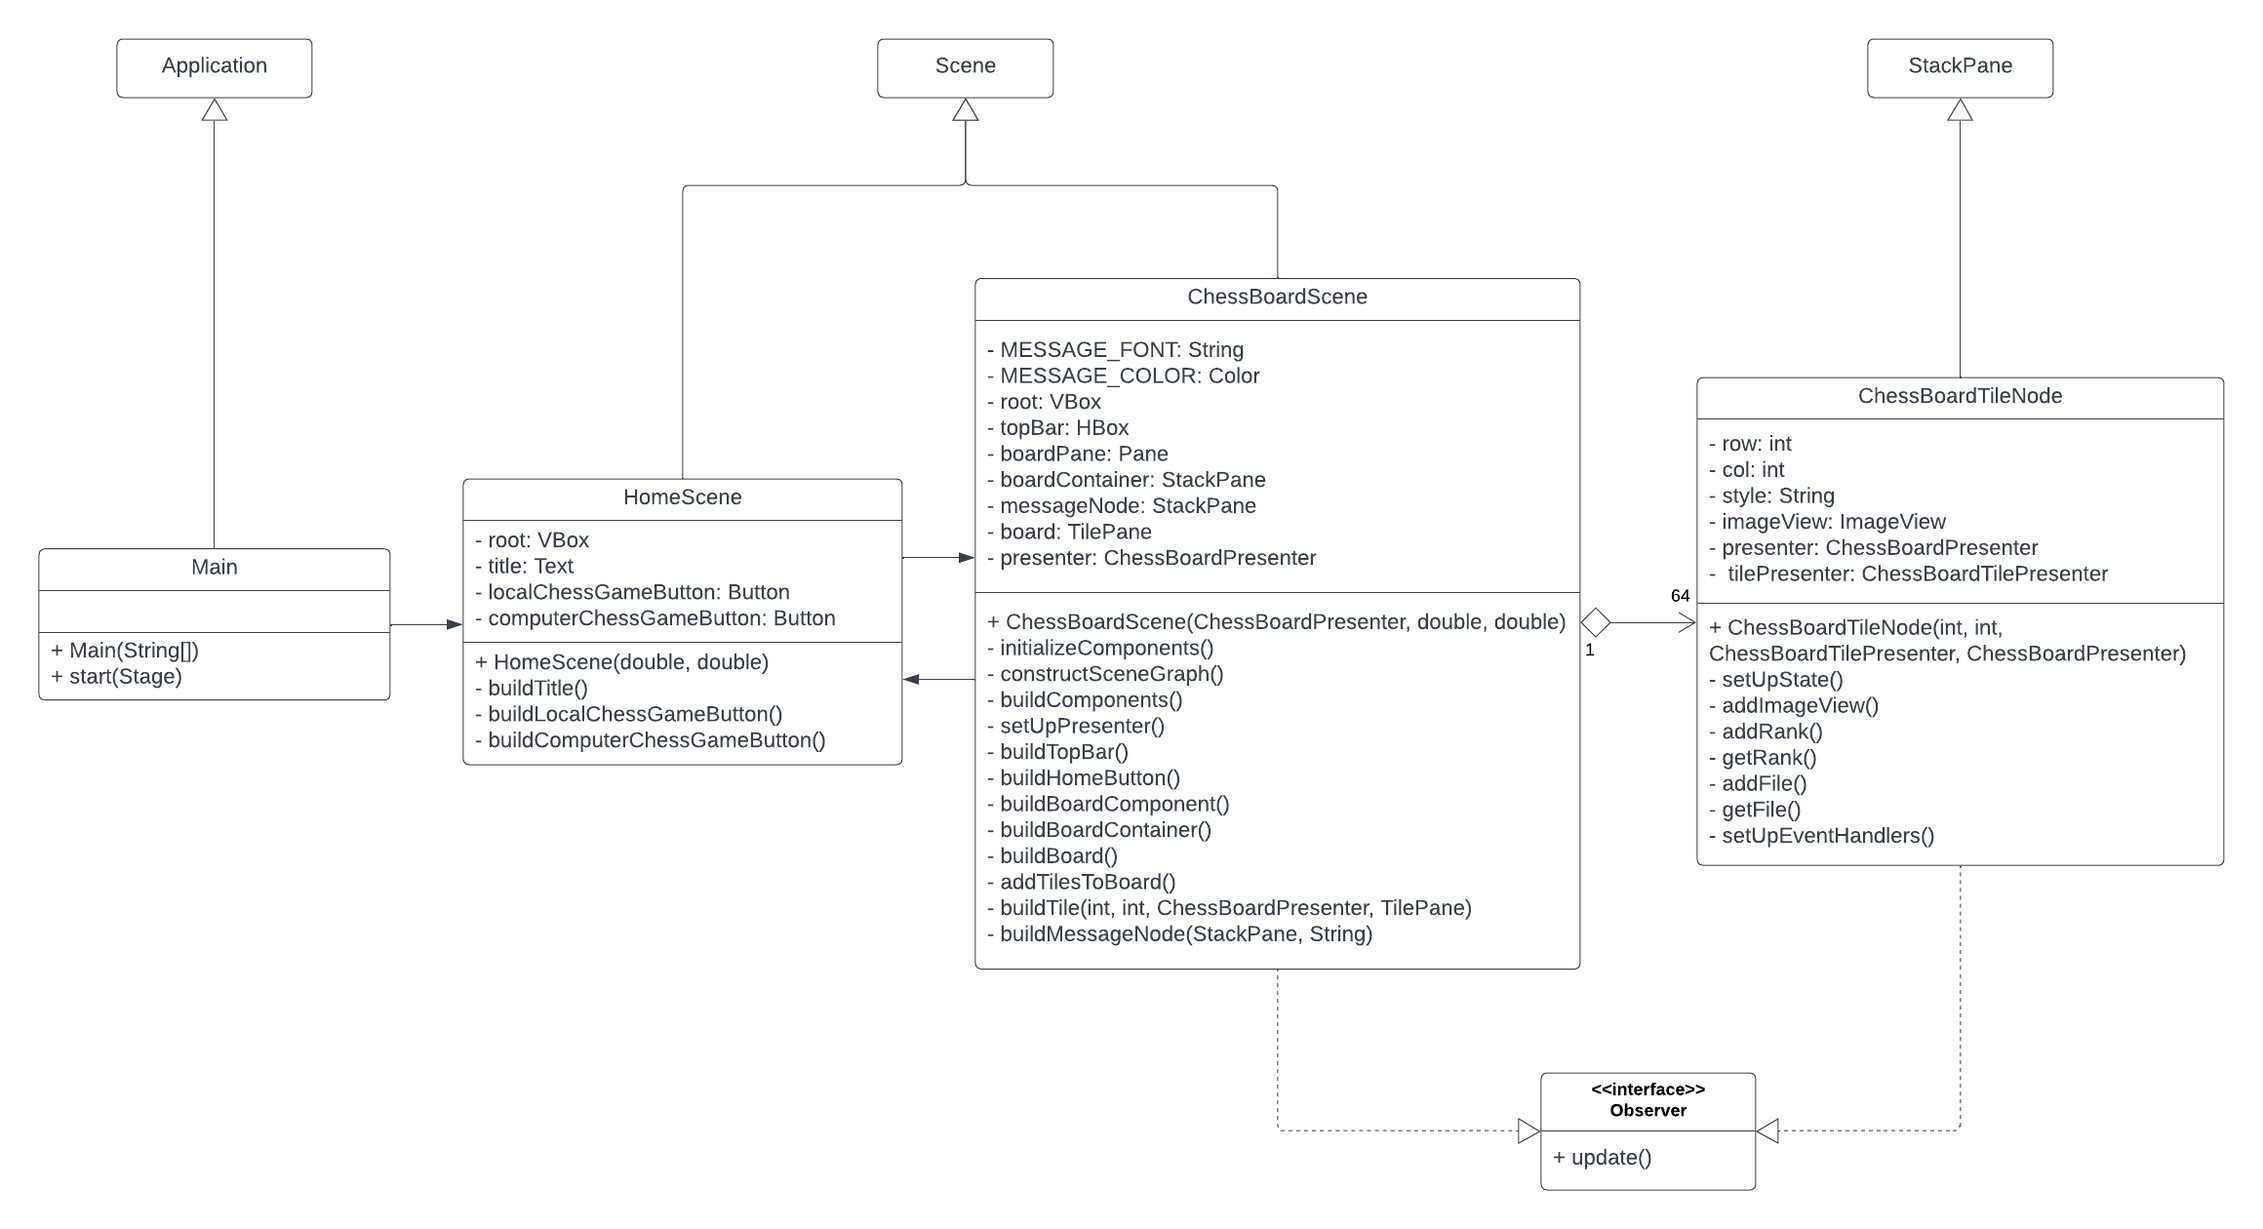
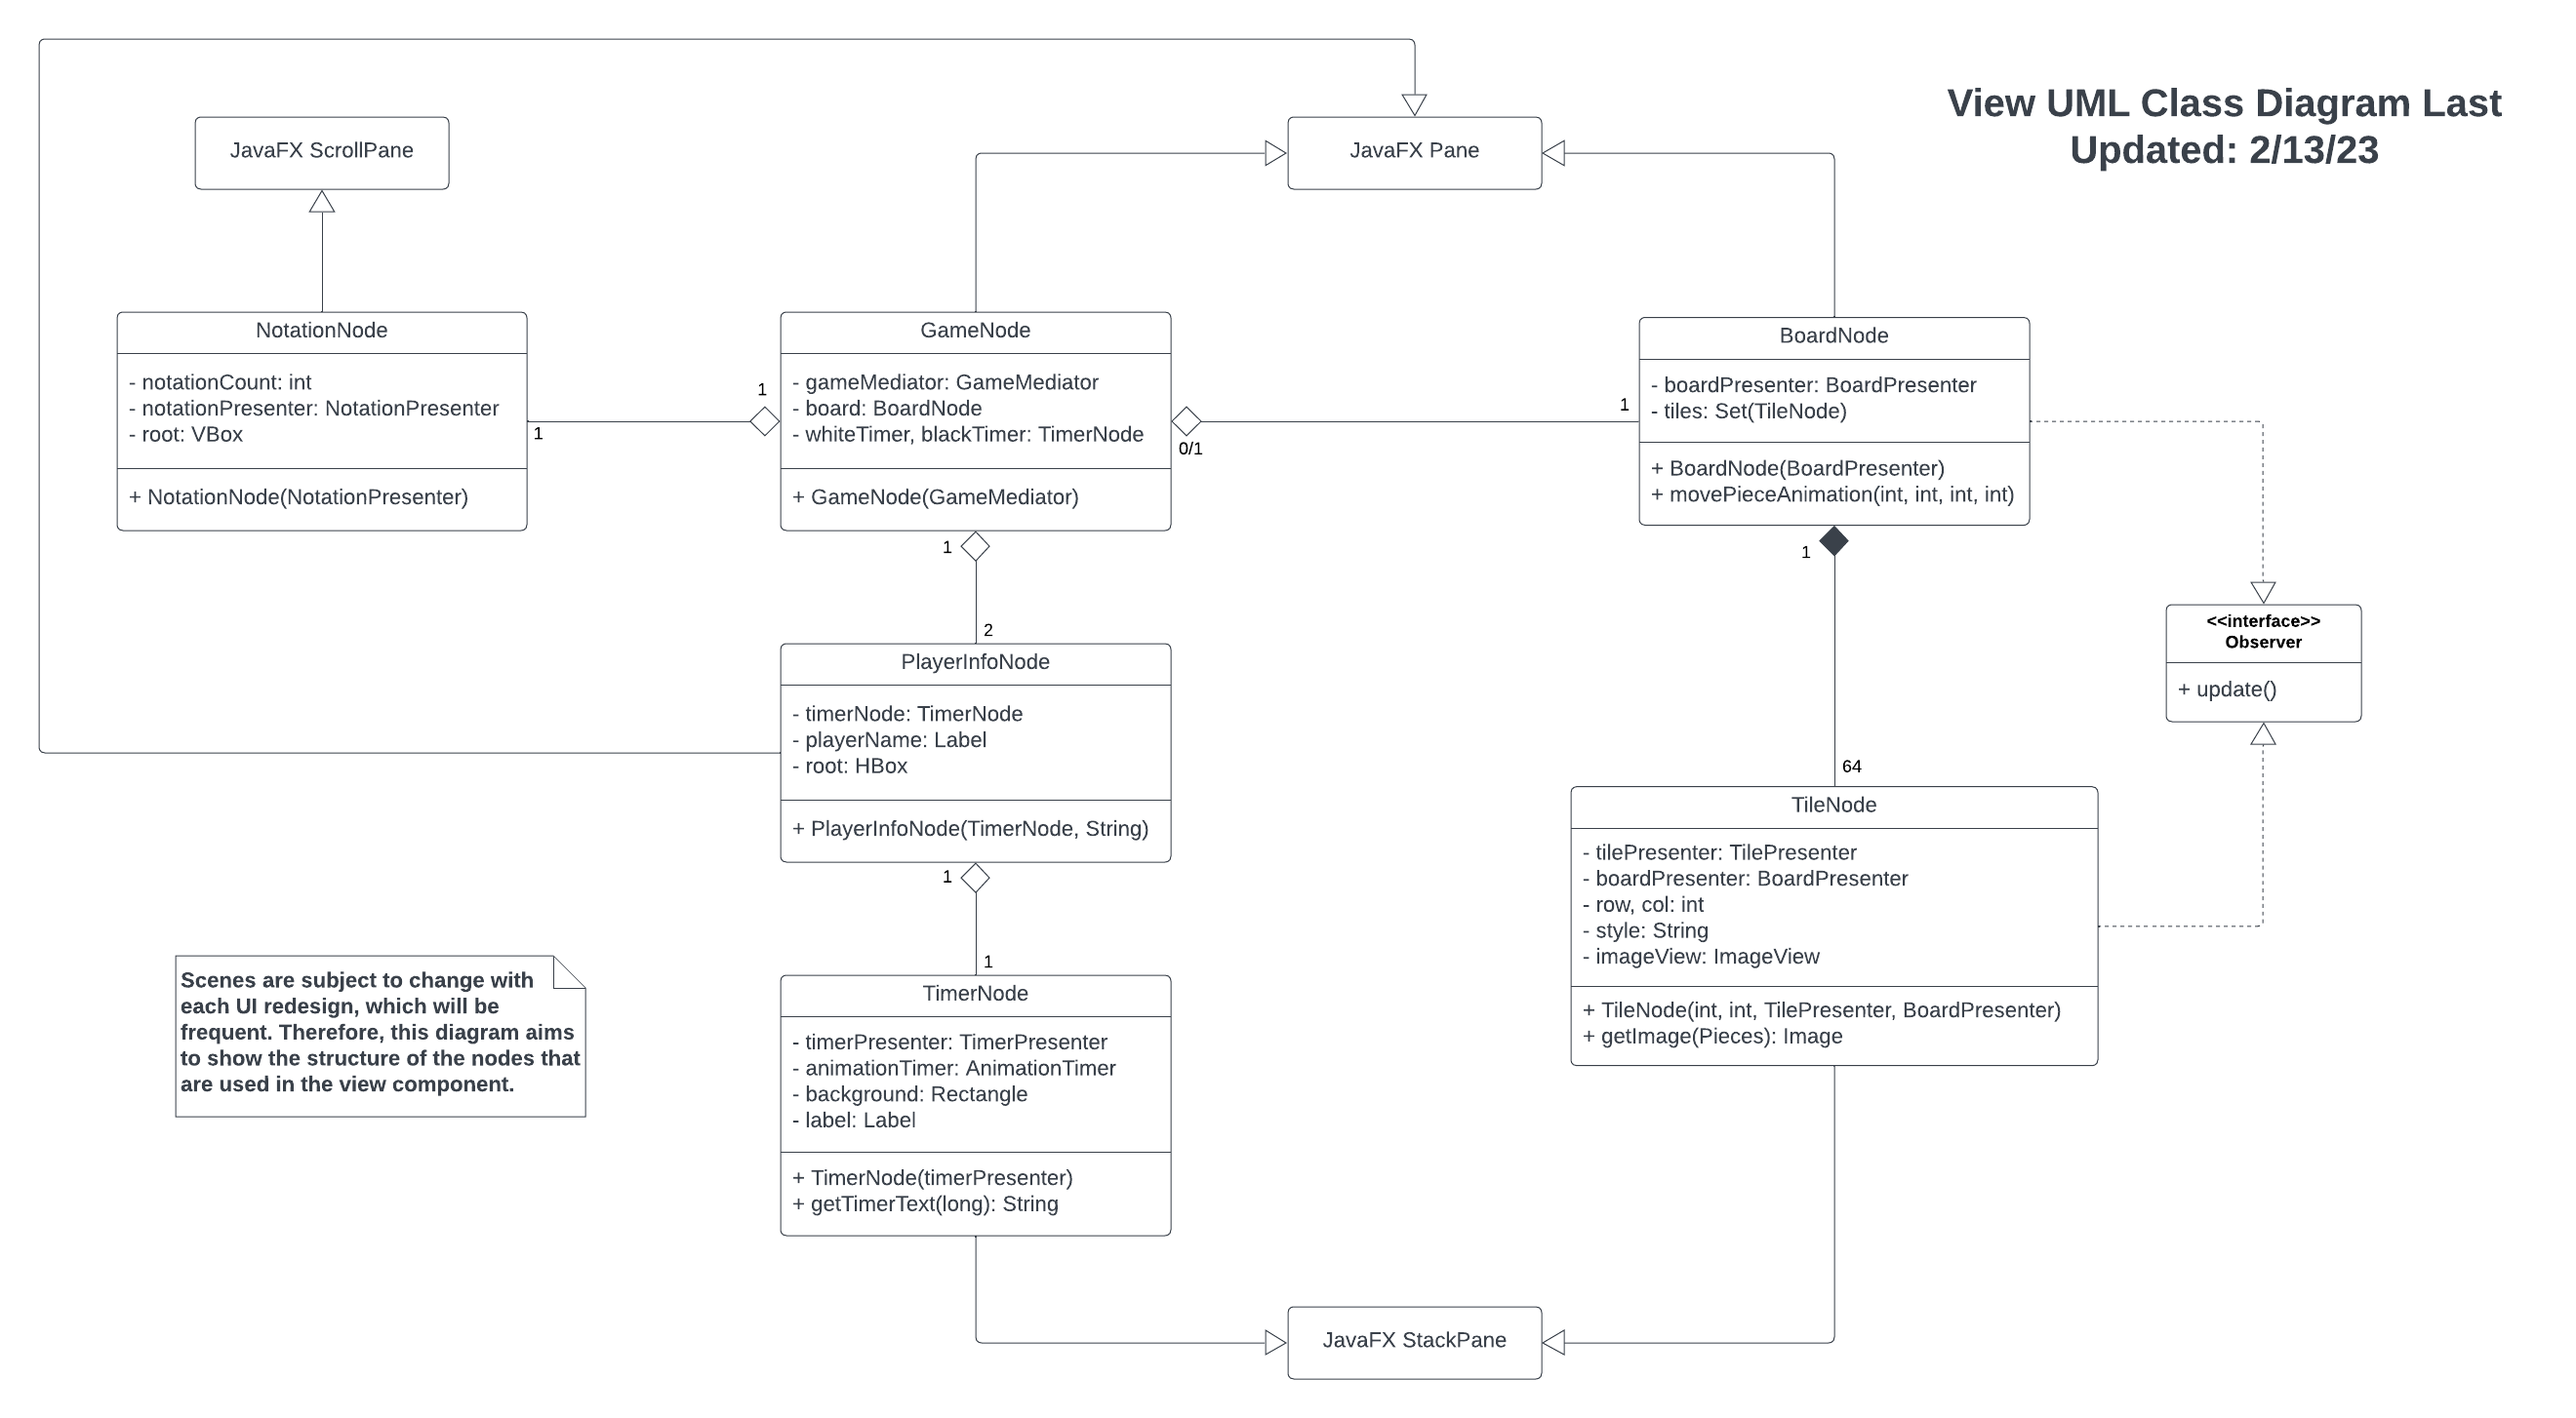
The documentation was updated to support the changes made over the past couple of weeks.

diff --git a/documentation/design.md b/documentation/design.md
@@ -18,17 +18,25 @@ It also allows me to test the presenter to make sure data is being presented in 
 ### Class Diagram - View Component
 ![](resources/class_diagram_view_component.png)
 
-The view component consists of a HomeScene and a ChessBoardScene, which is composed of ChessBoardTileNodes.
-The ChessBoardScene and the ChessBoardTileNodes implement the Observer interface.
-We can then attach these objects to presenters so that when the presenters' states are updated, the view is updated as well.
+The view component consists of a HomeScene and a ChessBoardScene.
+The ChessBoardScene consists of a board, timers, and a scrollable pane that shows the game's algebraic notation.
+The user can select a variety of options from the HomeScene, and once they're finished they'll be taken to the ChessBoardScene to play a game.
+
+I coupled the view and the presenter components using the Observer pattern.
+The view nodes act as observers of the presenters. 
+When a node is clicked on, the presenter handles the event by passing it on to the model.
+When the model updates, the presenters update, and those changes will automatically update the view since those nodes are attached to the presenters as observers.
 
 More details on the Observer design pattern can be found in *Design Patterns*.
 
 ### Class Diagram - Presenter Component
 ![](resources/class_diagram_presenter_component.png)
 
-The presenter component consists of presenters for the chess board and each tile in the chess board.
-Each of these implements the Observable interface so that each time the state of these presenters is modified, the corresponding observers are updated.
+The presenter component consists of presenters for the chess board, timers, and notation.
+The GameMediator controls the interactions between these three presenters.
+More details on the Mediator design pattern can be found in *Design Patterns*.
+These presenters implement the Observable design pattern, and have view nodes attached to them as Observers.
+When the state of a presenter changes, it updates it's Observers so that the view changes.
 
 ### Class Diagram - Model Component
 ![](resources/class_diagram_model_component.png)
@@ -48,9 +56,6 @@ More details on the Builder and Command design patterns can be found in *Design 
 The AIInterface defines how the AIBots (like Cheddar) can interact with the ChessGameInterface.
 The only thing an AIBot needs to do is make a move based on the state of a ChessGame. 
 Thus, that is the only method defined in the interface.
-
-The Cheddar AI bot will use an iterative deepening minimax algorithm with alpha-beta pruning. 
-It'll stop executing after the 5-second limit.
 
 ## Behavioral
 

diff --git a/README.md b/README.md
@@ -3,11 +3,16 @@
 ## Description
 
 This is a Chess desktop application developed using Java and the JavaFX framework. 
-It allows users to play against one another locally, or against an AI bot (a.k.a. the computer).
+It allows users to play against one another locally, or against a bot.
+The game supports the vast majority of chess rules, such as castling, en passant, promotion, etc.
+Additionally, the game supports the use of timers for time limits, and there's a sidebar that shows the algebraic notation for the moves made.
 
 ## Purpose
 
-The purpose of this project is to showcase what I've learned during my time in the OMSCS program regarding software development, architecture, and design. 
+The purpose of this project is to show that I can build a non-trivial application, and that I can manage and build off of a complex code base.
+The courses I've taken so far have only had small projects to work on, and the instructions are usually laid out very clearly.
+I wanted to build something of my own that showcases my abilities as a software developer.
+
 I used the following classes and books to learn the concepts that I've applied to this project:
 
 ### Classes:
@@ -29,16 +34,10 @@ I recommend reading the planning document to get an idea of what software develo
 Before diving into the source code, I would recommend referring to the design document to build an understanding of how these components and classes relate to one another.
 
 ## TODO
- - Update the heuristic function for the bot so that it is updated whenever a move is made.
- - Create bots that use different heuristic functions.
- - Add a screen that allows the user to select which bot they'd like to play against.
- - Export the game to a jar file so that it can be played without downloading the code.
- - Add backgrounds and themes to the user interface.
- - Add animations to moves.
- - Allow the user's piece to move BEFORE the bot starts to make its move.
- - Add saving functionality for the game.
- - Add list of moves made to the side of the screen.
- - Allow user to select which piece they'd like to promote a pawn to.
- - Add a button to reset the state of the game.
- - Move tables from the code to files that can be written to and read from.
+ - The timer currently goes negative when the computer sleeps. Timer should expire when the computer turns back on.
+ - Implement support on Windows OS.
+ - Add UCI functionality to support open-source chess bots that can be added to the game.
+ - Add pictures to the player's profiles.
+ - Add a reset button that resets the game.
+ - Highlight the current player's timer.
  

diff --git a/documentation/development_plan.md b/documentation/development_plan.md
@@ -1,11 +1,10 @@
 # Software Development Plan
 
 ## Description
-I'll be following a software development process as I build this project in order to catch problems before they become difficult to fix.
 
 My vision for this project is that someday it will be a fleshed out chess application. 
 It'll allow players to play on the same device against one another, to play against the computer, and to play against people on other devices.
-It'll have a variety of features so that users can keep track of their blunders and mistakes, and they can go back and look at those.
+It'll have a variety of features so that users can keep track of their blunders and mistakes, and they can go back and look at them.
 
 These are high aspirations, and an application that has these features would take a long time to develop. 
 With a waterfall development process, I would have to design the entire application before implementing any of the code, which means I won't write code for a very long time.
@@ -50,3 +49,6 @@ Here are the following phases that I'll be going through for this project:
 | 2           | Added a home screen.                          | 2b77c9e96747f1d60a7113aa59083541477f9af0 |
 | 3           | Added an option to play against the computer. | 4d579b41846534e3667a22c30ea1c709395fb77e |
 | 4           | Added animations to piece movement.           | ace6e12acb4db4aa01cca333d81b806bd42b6f46 |
+| 5           | Added timers for the players.                 | c1ccc1aee0ed7c10e7cf9ef8450b390ccbc32474 |
+| 6           | Redesigned the user interface.                | d2b02a95630268e819cf827447ae486555fc9295 |
+| 7           | Added algebraic notation.                     | 31963d9f0d9f532377ceb9d1b2c40e9d44f7aa17 |

diff --git a/documentation/problem_description.md b/documentation/problem_description.md
@@ -45,7 +45,10 @@ The game will be played according to standard chess game rules as follows:
 ## User Interface
 
 The user interface is composed of two types of screens, the home screen and the chess board screen.
-The home screen will contain two buttons, one of which will take you to the game screen to play locally, the other will take you to the game screen to play against the computer.
+The home screen will allow the user to select whether they would like to play locally or against the computer.
+If they'd like to play against the computer, they get to choose which bot they'd like to play against.
+They also get to select the time limit that each player has.
+Once they've selected the time limit, they can move on to the game screen.
 There's a home icon/button in the top left corner of the game screen which takes the user back to the home screen.
 
 #### Game Screen
